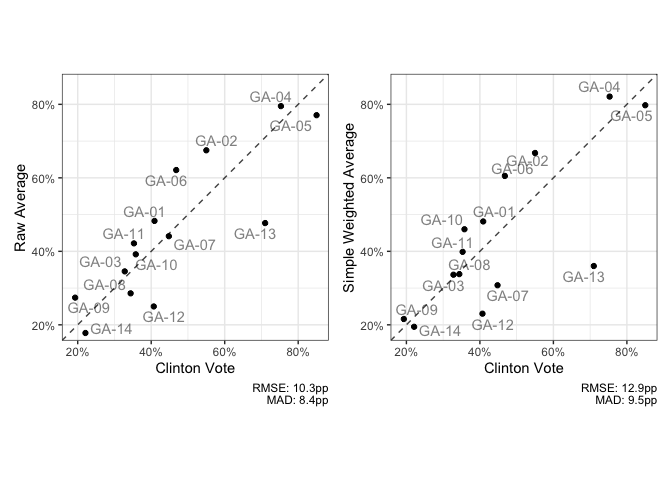
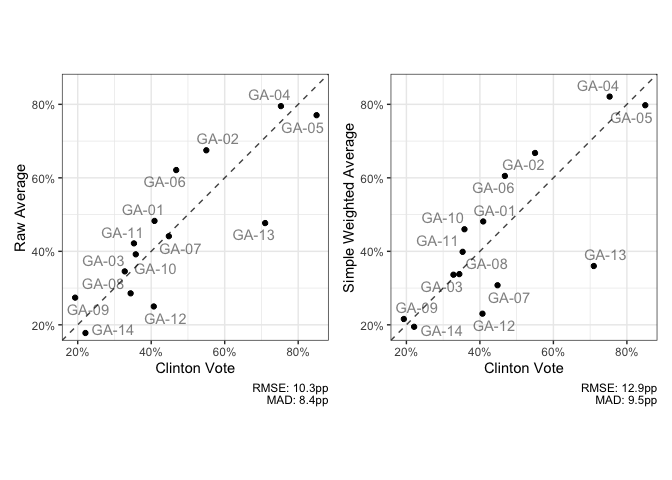
Update RMD

diff --git a/README.md b/README.md
@@ -20,11 +20,13 @@ remotes::install_github("kuriwaki/ccesMRPrun")
 
 The **main functions** in this package are:
 
-1.  `fit_brms` for fitting a multilevel model (or `fit_brms_binomial`)
-2.  `poststrat_draws` for extracting posterior draws for each area
-3.  `summ_sims` for obtaining summary statistics from these draws
-4.  `scatter_45` for clearly visualizing the relationship between the
+1.  `fit_brms()` for fitting a multilevel model (or `fit_brms_binomial`)
+2.  `poststrat_draws()` for extracting posterior draws for each area
+3.  `summ_sims()` for obtaining summary statistics from these draws
+4.  `scatter_45()` for clearly visualizing the relationship between the
     truth and estimate
+
+Steps 1-3 can be done via `mrp_onestep()`.
 
 See below for a demonstration with an example in the state of Georgia.
 
@@ -38,12 +40,20 @@ library(tidyverse)
 This is a simple wrapper around `brms::brm` but with some custom priors
 and a binomial model as a default.
 
+The two key parts of the workflow is a formula and a data. The formula
+should be a brms formula with a binary variable in the outcome. The data
+should be individual level data and have all the variables mentioned in
+the formula.
+
 ``` r
-form <- "response ~ (1|age) + (1 + female |educ) + clinton_vote + (1|cd)"
-
+form <- response ~ (1|age) + (1 + female |educ) + clinton_vote + (1|cd)
 cc_voters <- filter(cces_GA, vv_turnout_gvm == "Voted")
+```
 
-# turn into counts
+Now fit the model. `fit_brms` is basically the `brm` function, but with
+some wrappers.
+
+``` r
 fit <- fit_brms(form, cc_voters, verbose = FALSE)
 ```
 
@@ -53,10 +63,10 @@ fit <- fit_brms(form, cc_voters, verbose = FALSE)
     ## In file included from /Library/Frameworks/R.framework/Versions/4.0/Resources/library/StanHeaders/include/stan/math/prim/mat/fun/Eigen.hpp:13:
     ## In file included from /Library/Frameworks/R.framework/Versions/4.0/Resources/library/RcppEigen/include/Eigen/Dense:1:
     ## In file included from /Library/Frameworks/R.framework/Versions/4.0/Resources/library/RcppEigen/include/Eigen/Core:88:
-    ## /Library/Frameworks/R.framework/Versions/4.0/Resources/library/RcppEigen/include/Eigen/src/Core/util/Macros.h:613:1: error: unknown type name 'namespace'
+    ## /Library/Frameworks/R.framework/Versions/4.0/Resources/library/RcppEigen/include/Eigen/src/Core/util/Macros.h:628:1: error: unknown type name 'namespace'
     ## namespace Eigen {
     ## ^
-    ## /Library/Frameworks/R.framework/Versions/4.0/Resources/library/RcppEigen/include/Eigen/src/Core/util/Macros.h:613:16: error: expected ';' after top level declarator
+    ## /Library/Frameworks/R.framework/Versions/4.0/Resources/library/RcppEigen/include/Eigen/src/Core/util/Macros.h:628:16: error: expected ';' after top level declarator
     ## namespace Eigen {
     ##                ^
     ##                ;
@@ -70,58 +80,29 @@ fit <- fit_brms(form, cc_voters, verbose = FALSE)
     ## make: *** [foo.o] Error 1
 
 ``` r
-summary(fit)
+class(fit)
 ```
 
-    ##  Family: binomial 
-    ##   Links: mu = logit 
-    ## Formula: yes | trials(n_response) ~ (1 | age) + (1 + female | educ) + clinton_vote + (1 | cd) 
-    ##    Data: .data (Number of observations: 347) 
-    ## Samples: 4 chains, each with iter = 2000; warmup = 1000; thin = 1;
-    ##          total post-warmup samples = 4000
-    ## 
-    ## Group-Level Effects: 
-    ## ~age (Number of levels: 5) 
-    ##               Estimate Est.Error l-95% CI u-95% CI Rhat Bulk_ESS Tail_ESS
-    ## sd(Intercept)     0.13      0.13     0.00     0.49 1.00     1949     1950
-    ## 
-    ## ~cd (Number of levels: 14) 
-    ##               Estimate Est.Error l-95% CI u-95% CI Rhat Bulk_ESS Tail_ESS
-    ## sd(Intercept)     0.37      0.15     0.10     0.71 1.00      980      825
-    ## 
-    ## ~educ (Number of levels: 4) 
-    ##                       Estimate Est.Error l-95% CI u-95% CI Rhat Bulk_ESS
-    ## sd(Intercept)             0.37      0.29     0.02     1.10 1.00     1241
-    ## sd(female)                0.72      0.33     0.23     1.55 1.00     2102
-    ## cor(Intercept,female)     0.11      0.55    -0.86     0.95 1.00     1061
-    ##                       Tail_ESS
-    ## sd(Intercept)             1311
-    ## sd(female)                1814
-    ## cor(Intercept,female)     1835
-    ## 
-    ## Population-Level Effects: 
-    ##              Estimate Est.Error l-95% CI u-95% CI Rhat Bulk_ESS Tail_ESS
-    ## Intercept       -2.04      0.43    -2.96    -1.22 1.00     2056     2324
-    ## clinton_vote     3.74      0.71     2.41     5.20 1.00     2193     2239
-    ## 
-    ## Samples were drawn using sampling(NUTS). For each parameter, Bulk_ESS
-    ## and Tail_ESS are effective sample size measures, and Rhat is the potential
-    ## scale reduction factor on split chains (at convergence, Rhat = 1).
+    ## [1] "brmsfit"
 
 # Poststratification
 
 We can take predicted values from each of the MCMC draws, and aggregate
 it up to the area of interest.
 
+Here we use the poststratification data to fit *on*. We use the `acs_GA`
+built-in data here, but refer to
+[`ccesMRPprep`](www.shirokuriwaki.com/ccesMRPprep) to make a data that
+is your own.
+
 ``` r
-drw <- poststrat_draws(fit, 
-                       poststrat_tgt = acs_GA)
+drw <- poststrat_draws(fit, poststrat_tgt = acs_GA)
 drw
 ```
 
     ## # A tibble: 56,000 x 3
     ##    cd     iter p_mrp
-    ##    <chr> <dbl> <dbl>
+    ##  * <chr> <dbl> <dbl>
     ##  1 GA-01     1 0.429
     ##  2 GA-01     2 0.390
     ##  3 GA-01     3 0.517
@@ -140,38 +121,18 @@ We often care about the posterior mean and 95 percent credible intervals
 of the draws.
 
 ``` r
-summ_sims(drw)
+mrp_val <- summ_sims(drw)
 ```
-
-    ## # A tibble: 14 x 9
-    ##    cd    p_mrp_est p_mrp_025 p_mrp_050 p_mrp_100 p_mrp_500 p_mrp_900 p_mrp_950
-    ##    <chr>     <dbl>     <dbl>     <dbl>     <dbl>     <dbl>     <dbl>     <dbl>
-    ##  1 GA-01     0.438     0.339     0.354     0.370     0.434     0.509     0.530
-    ##  2 GA-02     0.583     0.463     0.479     0.499     0.581     0.670     0.691
-    ##  3 GA-03     0.324     0.234     0.250     0.267     0.322     0.384     0.404
-    ##  4 GA-04     0.736     0.643     0.657     0.675     0.737     0.795     0.812
-    ##  5 GA-05     0.762     0.664     0.683     0.702     0.764     0.820     0.834
-    ##  6 GA-06     0.554     0.455     0.470     0.487     0.552     0.623     0.643
-    ##  7 GA-07     0.429     0.337     0.351     0.369     0.430     0.490     0.507
-    ##  8 GA-08     0.302     0.200     0.219     0.237     0.302     0.367     0.385
-    ##  9 GA-09     0.233     0.161     0.172     0.185     0.231     0.284     0.300
-    ## 10 GA-10     0.366     0.278     0.292     0.308     0.364     0.427     0.445
-    ## 11 GA-11     0.387     0.302     0.315     0.332     0.386     0.445     0.464
-    ## 12 GA-12     0.299     0.193     0.207     0.225     0.300     0.371     0.391
-    ## 13 GA-13     0.544     0.418     0.441     0.465     0.546     0.622     0.644
-    ## 14 GA-14     0.202     0.119     0.130     0.146     0.202     0.259     0.277
-    ## # … with 1 more variable: p_mrp_975 <dbl>
 
 Append the truth and a baseline raw-sample
 
 ``` r
-dir_val <- group_by(cc_voters, cd) %>% 
-  summarize(p_raw = mean(response, na.rm = TRUE),
-            p_ygw = weighted.mean(response, weight_post, na.rm = TRUE), 
-            .groups = "drop")
+dir_val <- direct_ests(form, cc_voters, 
+                       area_var = "cd", 
+                       weight_var = "weight_post")
 
 mrp_val <- summ_sims(drw) %>% 
-  left_join(distinct(acs_GA, cd, clinton_vote), by = "cd") %>% 
+  left_join(elec_GA, by = "cd") %>% 
   left_join(dir_val, by = "cd")
 ```
 
@@ -180,9 +141,12 @@ mrp_val <- summ_sims(drw) %>%
 A wrapper for visualizing the accuracy relationship
 
 ``` r
-scatter_45(mrp_val, clinton_vote, p_mrp_est, cd,
+scatter_45(mrp_val, clinton_vote, p_mrp_est, 
+           lblvar = cd,
+           ubvar = p_mrp_900,
+           lbvar = p_mrp_050,
            xlab = "Clinton Vote",
-           ylab = "MRP Estimate")
+           ylab = "MRP Estimate ")
 ```
 
 <img src="README_files/figure-gfm/mrp-plot-1.png" style="display: block; margin: auto;" />
@@ -196,7 +160,7 @@ It may be easier to store the models in long form and show them at once.
 ``` r
 # reshape to long
 mrp_long <- mrp_val %>% 
-    select(cd, p_mrp_est, p_raw, p_ygw, clinton_vote) %>% 
+    select(cd, p_mrp_est, p_raw, p_wt, clinton_vote) %>% 
     pivot_longer(-c(cd, clinton_vote), names_to = "model") 
 
 # plot
@@ -204,7 +168,7 @@ scatter_45(mrp_long,
            clinton_vote, 
            value, 
            by_form = ~model,
-           by_labels = c(p_mrp_est = "MRP", p_raw = "Raw", p_ygw = "YouGov Weighted"),
+           by_labels = c(p_mrp_est = "MRP", p_raw = "Raw", p_wt = "YouGov Weighted"),
            xlab = "Clinton Vote",
            ylab = "Estimate")
 ```
